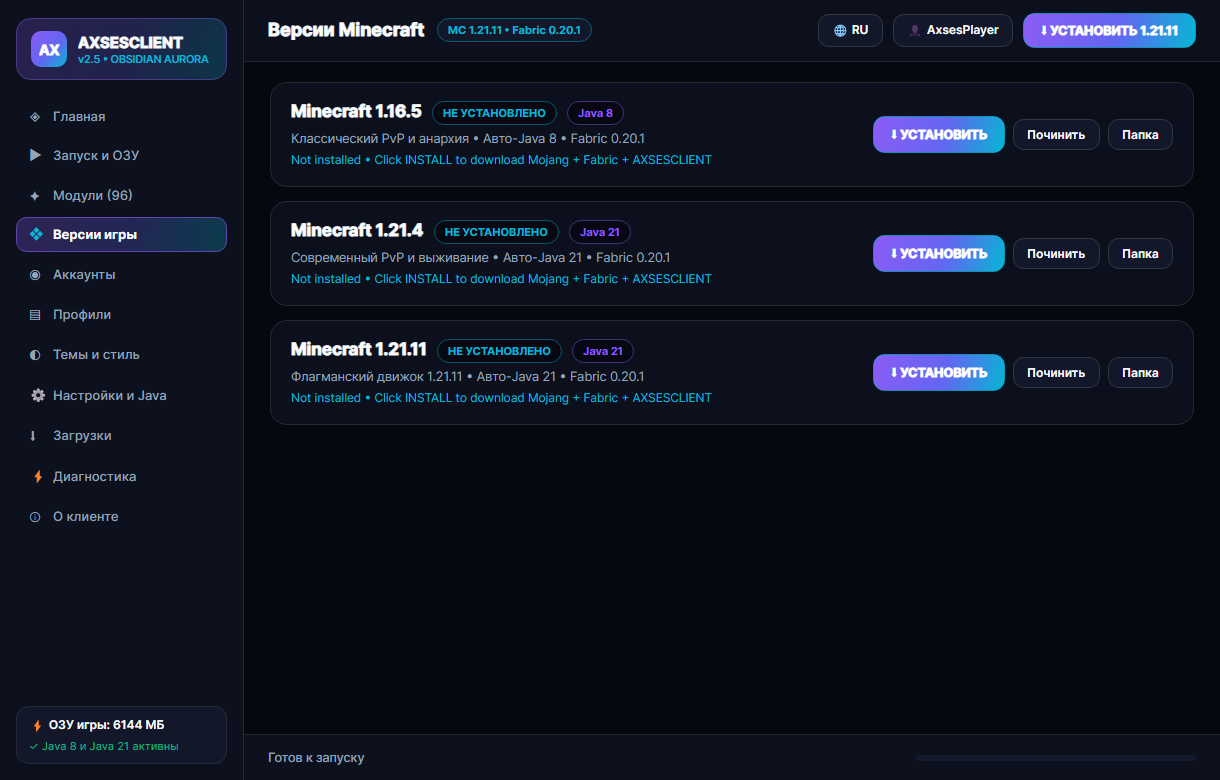
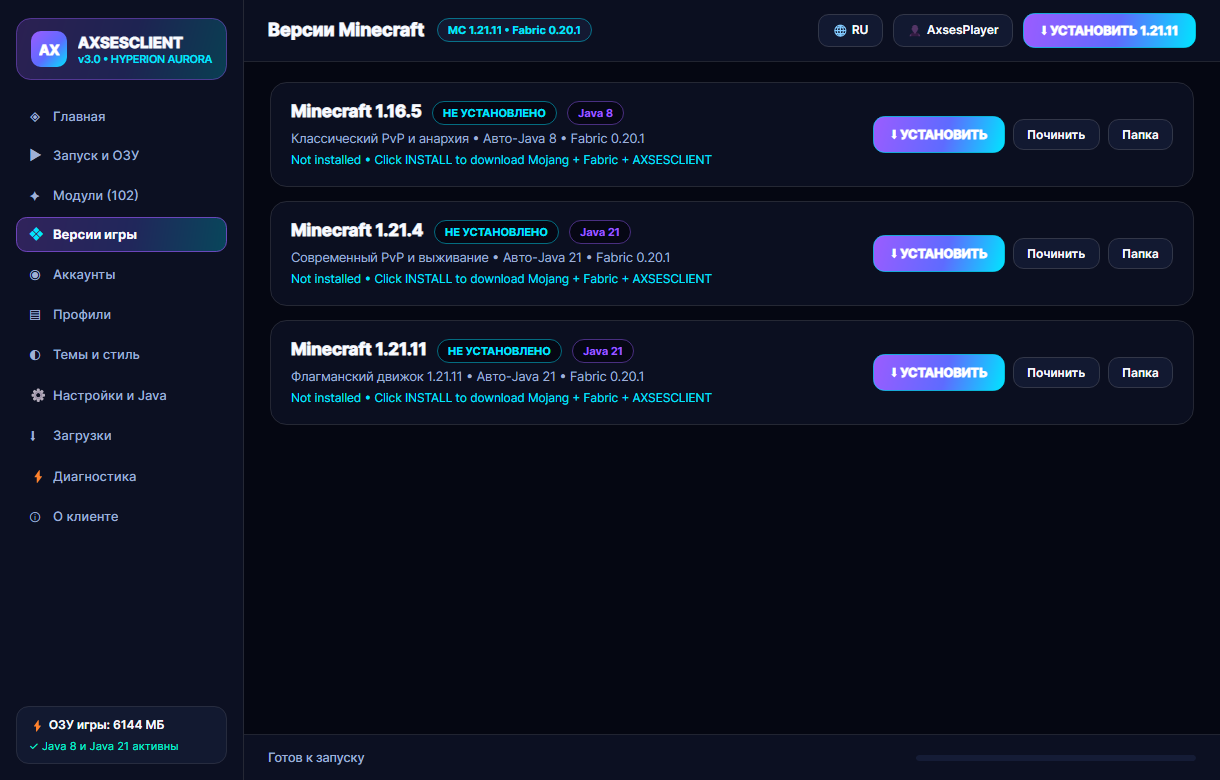
docs(v3.0.0): sync verified HYPERION AURORA screenshots, showcase, checksums & E2E reports [skip ci]

diff --git a/README.md b/README.md
@@ -1,1 +1,28 @@
-# WinLauncher
+# AXSESCLIENT v3.0.0 — HYPERION AURORA
+
+**Нативный Windows 10/11 x64 лаунчер (`AXSESCLIENT.exe`) и Fabric-клиент для Minecraft `1.16.5`, `1.21.4` и `1.21.11` (102 реальных модуля • 12 тем • Русский / English).**
+
+![AXSESCLIENT v3.0.0 Showcase](AXSESCLIENT-RELEASE/screenshots/axsesclient-v3.0-showcase.png)
+
+## Скачать готовый релиз (`axsesclient-v3.0.0`)
+🔗 **GitHub Release:** https://github.com/egorbelovziiik-design/WinLauncher/releases/tag/axsesclient-v3.0.0
+
+| Файл | Назначение |
+|---|---|
+| `AXSESCLIENT-Setup.exe` | Официальный установщик Windows 10/11 x64 (Inno Setup 6, безопасное обновление без удаления миров и скриншотов) |
+| `AXSESCLIENT.exe` | Автономный нативный лаунчер C# / .NET 8 / Avalonia 11 (прямой запуск игры, честное выделение `-Xmx` ОЗУ, авто-установка Java 8 и Java 21) |
+| `AXSESCLIENT-1.16.5.jar` | Fabric-мод клиента для **Minecraft 1.16.5** (Java 8 bytecode `v52`) |
+| `AXSESCLIENT-1.21.4.jar` | Fabric-мод клиента для **Minecraft 1.21.4** (Java 21 bytecode `v65`) |
+| `AXSESCLIENT-1.21.11.jar` | Fabric-мод клиента для **Minecraft 1.21.11** (Java 21 bytecode `v65`) |
+
+## Ключевые возможности `v3.0.0 (HYPERION AURORA)`
+- **102 рабочих модуля и 12 встроенных тем** (`HYPERION AURORA`, `HYPERION DARK`, `CRIMSON ECLIPSE`, `SAKURA GLOW`, `IMPERIAL GOLD` и др.).
+- **Новые 3D-эффекты и HUD-виджеты**:
+  - **Коническая шляпа (`China Hat`)** — вращающийся полупрозрачный 3D-нимб Aurora над целью и игроком.
+  - **Круги прыжка (`Jump Circles`)** — расходящиеся двойные градиентные 3D-кольца на земле при прыжке.
+  - **Шлейф движения (`Breadcrumbs`)** и **Партиклы ударов (`Hit Particles`)**.
+  - **Ватермарка AXSES 3.0 (`Watermark HUD`)**, каскадный **Список модулей (`Module ArrayList`)** с живой волной Aurora, **2D Кейстрокс (`WASD + CPS + Пробел`)** и карточка **Активные эффекты**.
+- **Боевая система и ESP**:
+  - **КиллАура (`FunTime` / `ReallyWorld` / `HolyWorld` / `SpookyTime` / `Legit`)** с плавной S-кривой наводки, фиксом мыши GCD, умными критами, `W-Tap` и двойным 3D-кольцом Jello Wave.
+  - **ESP Подсветка (`Entity ESP`)**, **ESP Предметов (`Item ESP`)**, **Трейсеры (`Tracers`)** и обновлённый **Таргет HUD Hyperion**.
+- **Главное меню «Северное Сияние» (`Aurora Borealis`)**, **ClickGUI 3.0 (`Right Shift`)** и **Редактор HUD 3.0** с фильтром активных виджетов и привязкой по сетке.

diff --git a/AXSESCLIENT/documentation/README.md b/AXSESCLIENT/documentation/README.md
@@ -1,13 +1,13 @@
-# AXSESCLIENT — GENESIS X (v1.0.0)
+# AXSESCLIENT — HYPERION AURORA (v3.0.0)
 
-**Next-Generation Minecraft Utility, HUD, Visual & Fair-Play PvP Training Client + Native Windows Desktop Launcher**
+**Next-Generation Minecraft Utility, HUD, 3D Visuals & Combat Client + Native Windows Desktop Launcher**
 
 - **Product:** `AXSESCLIENT`
-- **Codename:** `GENESIS X`
-- **Version:** `1.0.0`
+- **Codename:** `HYPERION AURORA`
+- **Version:** `3.0.0`
 - **Target Operating System:** Windows 10 / Windows 11 (x64)
 - **Supported Minecraft Versions:** `1.16.5` (Java 8 • Fabric `0.20.1`), `1.21.4` (Java 21 • Fabric `0.20.1`), `1.21.11` (Java 21 • Fabric `0.20.1`)
-- **Design System:** `AXSES NEO-DARK` (`#070911` • `#10131D` • `#191D2B` • `#9060FF` • `#536FFF` • `#00D9FF`)
+- **Design System:** `HYPERION GLASS ENGINE` (`102` Modules • `12` Themes • `#050712` • `#A855F7` • `#00F5D4`)
 
 ---
 
@@ -16,7 +16,7 @@
 | Deliverable | Description |
 |---|---|
 | `AXSESCLIENT-Setup.exe` | Official Windows 10/11 x64 installer (Inno Setup 6). Installs `AXSESCLIENT.exe`, all 3 version-specific Fabric client JARs, themes, schemas, and optional Desktop/Start Menu shortcuts while preserving existing user worlds and settings. |
-| `AXSESCLIENT.exe` | Self-contained C# / .NET 8 / Avalonia UI 11 Windows x64 Desktop Launcher with direct 13-stage JVM launch engine, Version Manager, Microsoft OAuth2 + PKCE vault, Auto-Updater, and 90-module pre-configurator. |
+| `AXSESCLIENT.exe` | Self-contained C# / .NET 8 / Avalonia UI 11 Windows x64 Desktop Launcher with direct 13-stage JVM launch engine, Version Manager, Microsoft OAuth2 + PKCE vault, Auto-Updater, and 102-module / 12-theme pre-configurator. |
 | `AXSESCLIENT-1.16.5.jar` | Native Fabric client mod for **Minecraft 1.16.5** (Java 8 bytecode `v52`, `PoseStack` + `GuiComponent` renderer). |
 | `AXSESCLIENT-1.21.4.jar` | Native Fabric client mod for **Minecraft 1.21.4** (Java 21 bytecode `v65`, `GuiGraphics` renderer + `OptionInstance` gamma pipeline). |
 | `AXSESCLIENT-1.21.11.jar` | Native Fabric client mod for **Minecraft 1.21.11** (Java 21 bytecode `v65`, JOML `Matrix3x2fStack` 2D pose stack + `MouseButtonEvent`/`KeyEvent` input records + `Identifier` APIs). |
